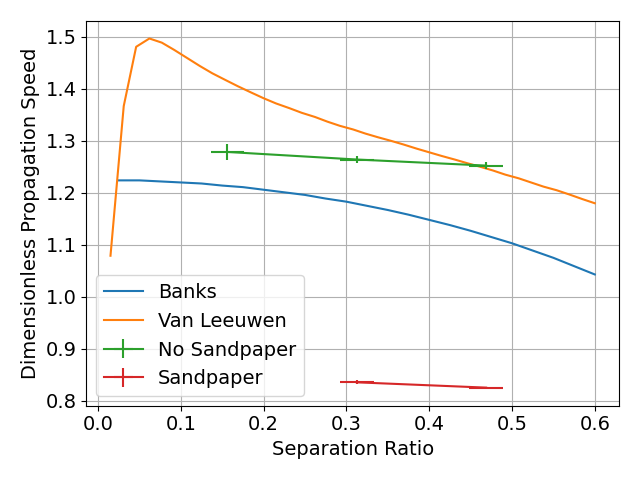
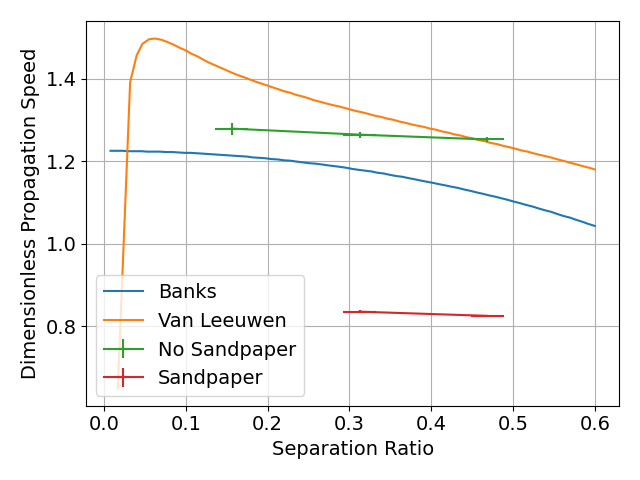
Updates

diff --git a/advlab/dominos/combined_models.py b/advlab/dominos/combined_models.py
@@ -10,6 +10,23 @@ SAVE_PLOTS = True
 SAVE_PATH = "images/"
 SKIP_PLOTS = False
 
+
+def reduced_chi_squared(y, yerr, y_model):
+    return np.sum(((y - y_model) / yerr) ** 2) / (len(y) - 1)
+
+
+def match_and_chi2(data, model):
+    close_list = []
+    model_copy = model.copy().iloc[:, 0].to_numpy()
+
+    for value in data["x"]:
+        closest = np.argmin(np.abs(model_copy - value))
+        close_list.append(closest)
+
+    y_model = model.iloc[close_list, 1]
+    return reduced_chi_squared(data["y"], data["yerr"], y_model)
+
+
 # Import data
 no_sandpaper_raw = pd.read_csv("nopaper.csv")
 sandpaper_raw = pd.read_csv("paper.csv")
@@ -40,6 +57,13 @@ for data in [nopaper_data, paper_data]:
     data["y"] = np.multiply(data["y"], y_scale)
     data["yerr"] = np.multiply(data["yerr"], y_scale)
 
+# Compute the reduced chi-squared
+banks_chi2 = match_and_chi2(nopaper_data, banks_raw)
+leeuwen_chi2 = match_and_chi2(nopaper_data, leeuwen_raw)
+
+print(f"Banks chi-squared: {banks_chi2:.2f}")
+print(f"Van Leeuwen chi-squared: {leeuwen_chi2:.2f}")
+
 # Plot the two models
 plt.plot(banks_raw.iloc[:, 0], banks_raw.iloc[:, 1], label="Banks")
 plt.plot(leeuwen_raw.iloc[:, 0], leeuwen_raw.iloc[:, 1], label="Van Leeuwen")
@@ -68,5 +92,6 @@ plt.tight_layout()
 
 if SAVE_PLOTS:
     plt.savefig(SAVE_PATH + "combined_models.png")
+
 if not SKIP_PLOTS:
     plt.show()

diff --git a/advlab/dominos/banks.py b/advlab/dominos/banks.py
@@ -1,18 +1,20 @@
 import math as m
 
+import numpy as np
 import scipy.integrate as integrate
 
 # Python implementation of Banks model for the domino effect
 # This model only considers the effect of one domino on the next and does not
 # consider the whole chain of dominoes. As well the collision is elastic.
 
-ratio_d = 0.17363  # d/h aspect ratio of dominoes
 # ratio_s = 2/6 # s/h ratio of distance between dominoes to the height of
 # the domino
-h = 4.445  # cm height of domino
-d = ratio_d * h  # cm width/depth of domino
+h = 4.8  # cm height of domino
+d = 0.75  # cm width/depth of domino
 # sep = ratio_s * h # cm separation between dominoes
 g = 9.81  # m/s^2 gravity
+
+ratio_d = d / h  # d/h aspect ratio of dominoes
 
 
 def omega_max(sep, g, h):
@@ -48,14 +50,13 @@ def ell_int(k, a, b):
     return integrate.quad(ell_func, a, b, args=k)
 
 
-num_sep = 40
+num_sep = 80
+ratio_s_list = np.linspace(0, 0.6, num_sep)
 values = []
 
-for i in range(1, num_sep):
-    ratio_s = i / num_sep
+for ratio_s in ratio_s_list:
     sep = ratio_s * h
     theta_c = m.asin(ratio_s)  # ratio_s is s/h
-    # print(theta_c)
     max_angular_velocity = omega_max(sep, g, h)
     dimensionless_vel = (sep / time(max_angular_velocity, theta_c, g, h)) / m.sqrt(
         g * h

diff --git a/advlab/dominos/vanleeuwen_numerical.py b/advlab/dominos/vanleeuwen_numerical.py
@@ -83,7 +83,7 @@ tau = math.sqrt(
 )  # the time scale, equation (12)
 g = 9.8  # gravitational acceleration
 # parameter:
-Nt = 40  # number of separations s/h
+Nt = 80  # number of separations s/h
 # global variables:
 Ni = 0
 duration = 0  # time
